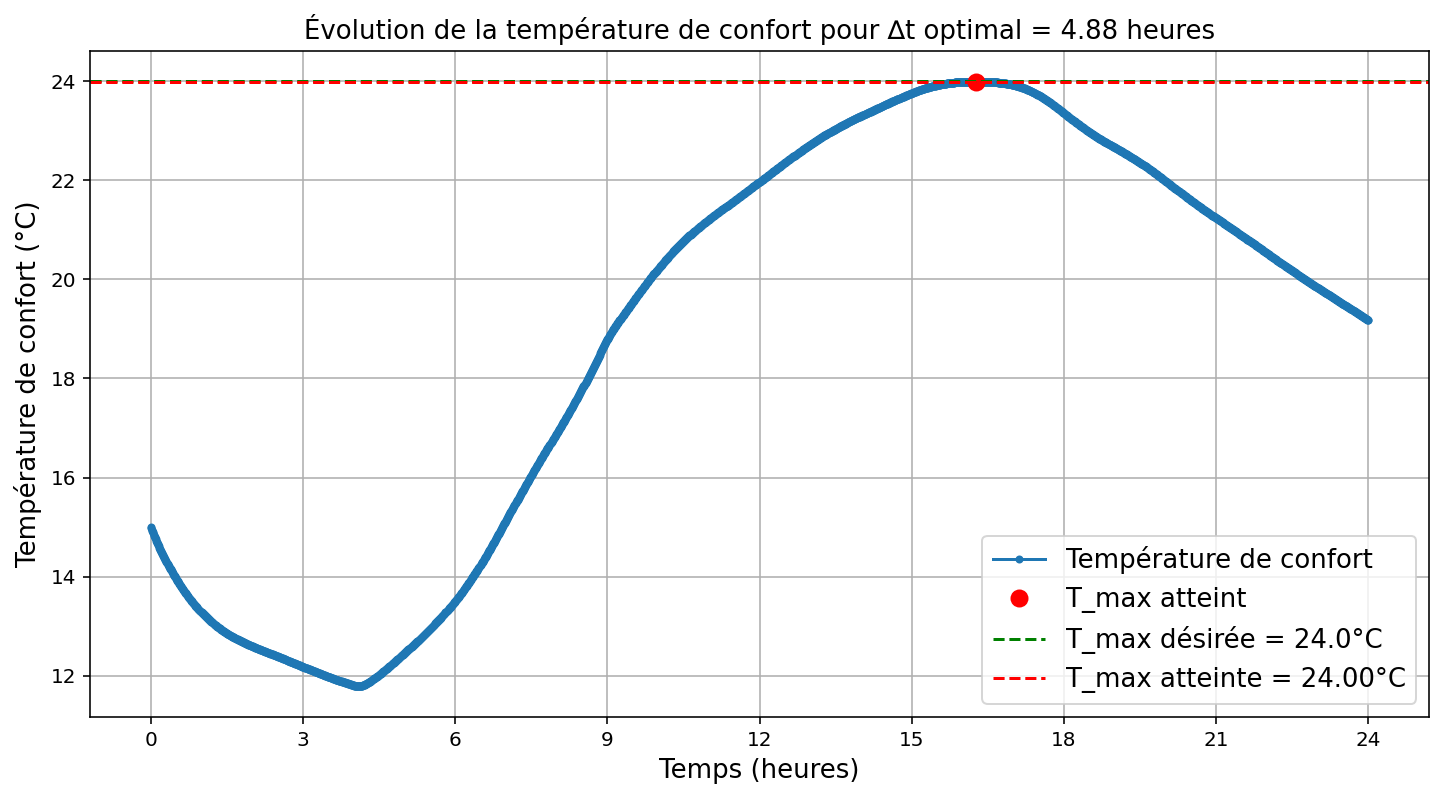
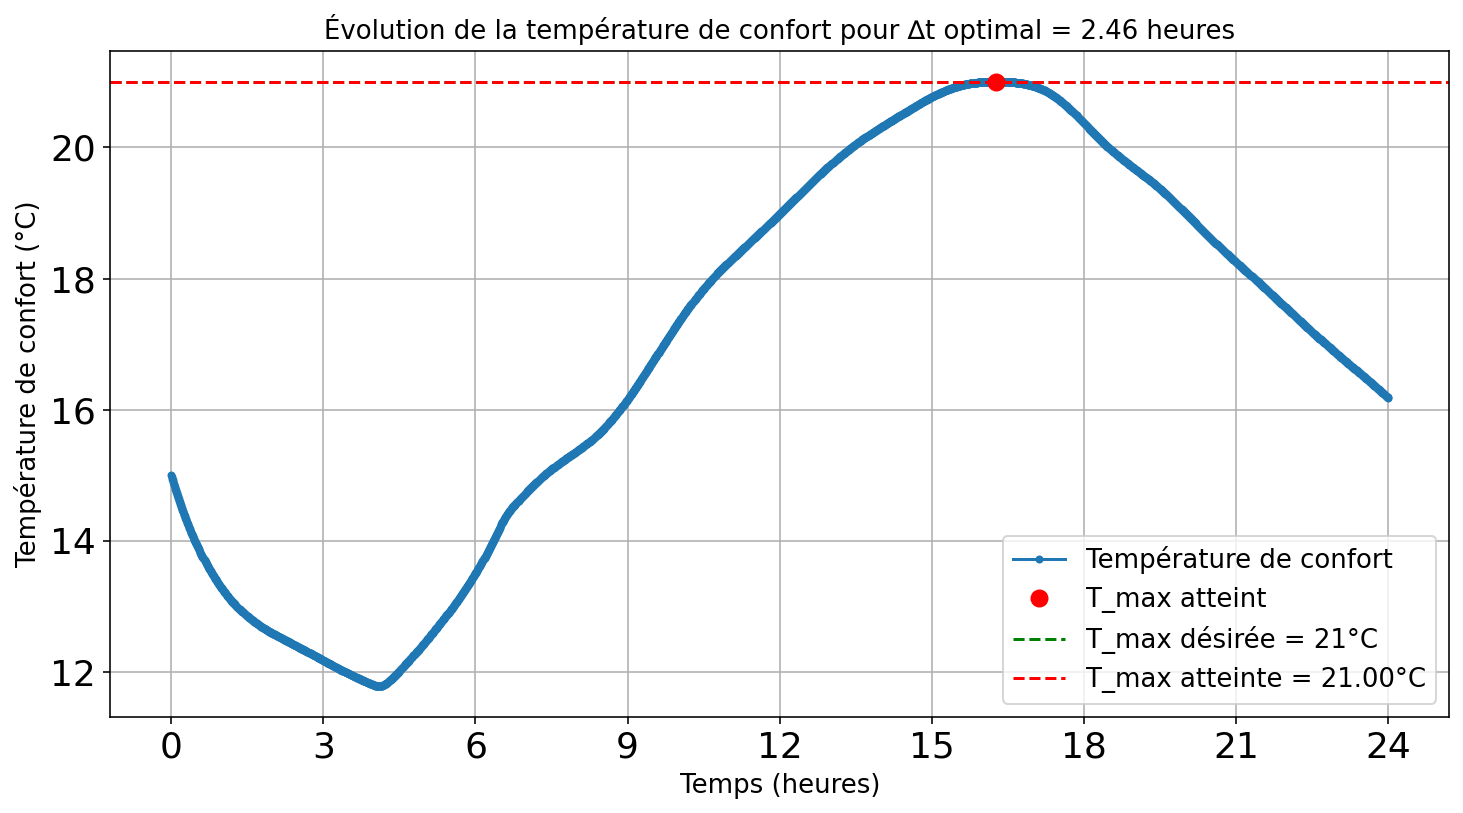
chore: update plot

diff --git a/SimTABS.py b/SimTABS.py
@@ -608,7 +608,7 @@ def f(delta_t):
     return T_max - T_max_d
 
 # Test de la fonction
-T_max_d = 24.0  # Température maximale souhaitée
+T_max_d = 21  # Température maximale souhaitée
 
 # Points initiaux pour la méthode de la sécante
 delta_t_min = 0.1  # Premier point initial
@@ -796,9 +796,9 @@ t_dernier = t_complet[indices_dernier_jour] - debut_dernier_jour
 T_confort_dernier = T_confort[indices_dernier_jour]
 
 # Période 8h-19h du dernier jour
-masque_periode = (t_dernier >= 8) & (t_dernier <= 19)
-T_confort_periode = T_confort_dernier[masque_periode]
-t_periode = t_dernier[masque_periode]
+intervalle_periode = (t_dernier >= 8) & (t_dernier <= 19)
+T_confort_periode = T_confort_dernier[intervalle_periode]
+t_periode = t_dernier[intervalle_periode]
 
 # Vérification des limites
 conforme = np.all((T_confort_periode >= 19.5) & (T_confort_periode <= 24))
